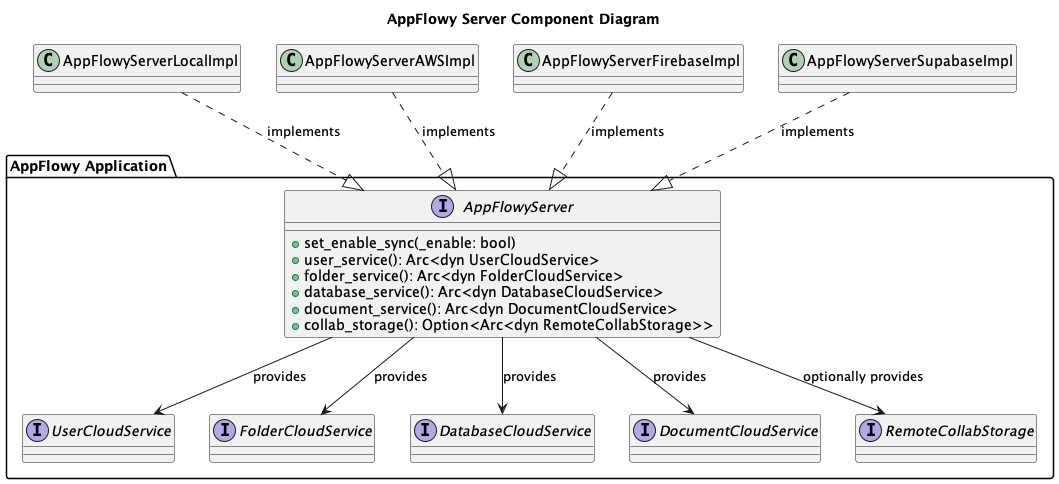
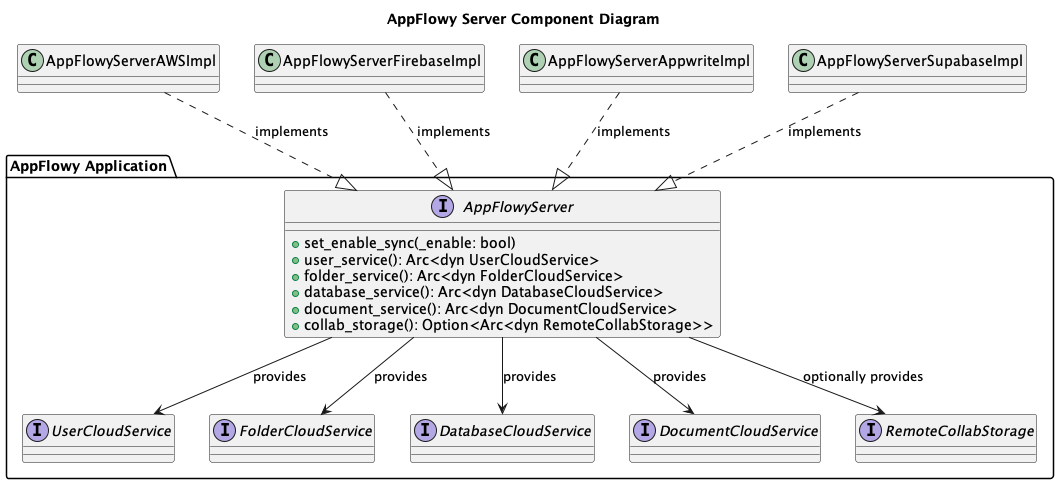
chore: update appflowy with supabase documentation

diff --git a/essential-documentation/appflowy-cloud/appflowy-with-supabase-wip.md b/essential-documentation/appflowy-cloud/appflowy-with-supabase-wip.md
@@ -1,22 +1,24 @@
-# AppFlowy with Supabase(WIP)
-AppFlowy, known for its user-friendly features in local apps, now allows users to upload data to the Cloud. We've chosen Supabase, an open-source alternative to Firebase, to manage user sign-ins and data storage. With a Supabase project, anyone can easily implement a self-hosted AppFlowy.
+# AppFlowy with Supabase
 
-Let's explore how AppFlowy uses Supabase for these tasks.
+AppFlowy is renowned for its user-friendly local app features. Recognizing the numerous requests for a cloud version, we're thrilled to announce that AppFlowy is now cloud-enabled! We've partnered with Supabase, an open-source alternative to Firebase, to handle user sign-ins and data storage. With a Supabase project, transforming AppFlowy into a self-hosted cloud app is straightforward. By the end of this article, you'll be primed to launch your very own AppFlowy cloud application with ease.
+
+Let's explore how AppFlowy uses Supabase to implement the cloud features.
 
 # Table of Contents
 
-- [Authentication](#Authentication)
-  - [Dive in the code](#Dive in the code)
-  - [Deep Links](#Deep Links)
-  - [Voila!](#Voila!)
-- [Data storage](#Data storage)
-  - [Architecture Design](#Architecture Design)
-  - [Supabase implementation](#Supabase implementation)
-    - [Database schema](#Database schema)
-    - [Dive in the code](#Dive in the code)
-- [Realtime](#Realtime)
+- [Authentication](#authentication)
+  - [Dive in the code](#dive-in-the-code)
+  - [Voila!](#voila)
+- [Data storage](#data-storage)
+  - [Architectural Design](#architectural-design)
+  - [Supabase implementation](#supabase-implementation)
+    - [Database schema](#database-schema)
+    - [Dive in the code](#dive-in-the-code-1)
+- [Realtime](#realtime)
+  - [Dive in the code](#dive-in-the-code-2)
 
-# Authentication
+
+## Authentication
 
 Initially, we considered building our own authentication service from scratch, one that would support social third-party authentication, magic links, and traditional email & password login. However, we soon realized that there were open-source projects available that already offer these features. That led us to the discovery of the Supabase authentication service, which provides multiple methods for user authentication.
 
@@ -27,7 +29,7 @@ Initially, we considered building our own authentication service from scratch, o
 
 This is exactly what we need. We can leverage Supabase's authentication service to implement AppFlowy's authentication system. After follow the instructions in [this documentation](https://supabase.com/docs/guides/auth), we successfully set up the authentication service. 
 
-## Dive in the code
+### Dive in the code
 Additionally, there's a Flutter package named [supabase_flutter](https://pub.dev/packages/supabase_flutter) which can be seamlessly integrated into AppFlowy. It perfectly meets our requirements. We utilize the `env` file to inject the supabase configuration into the app. Consequently, simply adding `supabase_flutter` and `envied` to the `pubspec.yaml` is all that's needed to kickstart the process.
 
 ```yaml
@@ -41,7 +43,7 @@ dev_dependencies:
 
 **Configuring the .env File**
 
-Start by creating a file named `.env` in the `appflowy_flutter` directory. Then, establish the `env.dart` file, which defines the global environment variables.
+Start by creating a file named `.env` in the `appflowy_flutter` directory. Then, create the `env.dart` file, which defines the global environment variables.
 
 * .env
 ```dotenv
@@ -99,7 +101,7 @@ Before utilizing the Supabase instance, it must be initialized. This initializat
 
 **Perform authentication**
 
-Our authentication logic leverages an abstract class named `AuthService`. This class's Supabase implementation can be found in `SupabaseAuthService`, specifically within the `supabase_auth_service.dart` file. 
+Our authentication logic provided an abstract class named `AuthService`. This class's Supabase implementation can be found in `SupabaseAuthService`, specifically within the `supabase_auth_service.dart` file. 
 
 ```dart
  @override
@@ -144,21 +146,21 @@ The authentication flow is shown below:
 
 ![](./uml-Authentication_Flow.png)
 
-## Deep Links
-
-## Voila!
+### Voila!
 Ultimately, by clicking the Google login button, users are directed to a web browser to finalize the authentication process. Once authenticated, they are seamlessly redirected back to AppFlowy. Truly, integrating Supabase authentication into AppFlowy is a straightforward endeavor.
 
 ![login.png](login_image.png)
 
-# Data storage
-## Architecture Design
+## Data storage
 
-One of the prerequisites for AppFlowy Data Storage is supporting multiple cloud services. To realize this, we've architected a modular design that accommodates the integration of diverse cloud services. Each implementation supplies the specific logic for the functions delineated in the AppFlowyServer interface. This architectural design is depicted below:
+### Architectural Design
+
+One of the prerequisites for AppFlowy Data Storage is the support for multiple cloud services. To achieve this, we've designed an abstraction layer that facilitates the integration of various cloud services. Each implementation provides the specific logic for the functions outlined in the AppFlowyServer interface. The architectural design is illustrated below:
 
 ![](./uml-AppFlowy_Server_Component_Diagram.png)
 
-As you can see, with the `AppFlowyServer` interface, we can seamlessly switch between different cloud services. For instance, transitioning from Supabase to AWS or Firebase is as simple as altering the implementation of the `AppFlowyServer` interface. This flexibility is a notable benefit of its modular design. The `AppFlowyServer` comprises five components, with each component handling a distinct set of functionalities. Let's delve into each of these components.
+From the `AppFlowyServer` interface, it's evident that we can easily transition between various cloud services. For instance, moving from [Supabase](https://supabase.com/) to [Firebase](https://firebase.google.com/) or [Appwrite](https://appwrite.io/) is merely a matter of changing the implementation of the `AppFlowyServer` interface. The `AppFlowyServer` encompasses five services, with each service catering to a unique set of functionalities. Additionally, each service defines its own interface. Let's explore each of these components in detail.
+
 
 * UserCloudService
 
@@ -183,7 +185,7 @@ The `FolderCloudService` interface outlines a set of operations centered around 
 
 Currently, we only support Supabase as a cloud service provider. However, we intend to support other cloud services in the future. Let's explore how to implement the `AppFlowyServer` using Supabase.
 
-## Supabase implementation
+### Supabase implementation
 Upon integrating Supabase authentication, we discovered it inherently offers a PostgreSQL database. This advantage implies that individual users self-hosting AppFlowy on Supabase won't require separate data storage setups. Each Supabase project is pre-equipped with a dedicated PostgreSQL database, which we leverage to store AppFlowy's data.
 
 ### Database schema
@@ -195,7 +197,10 @@ We utilize the Postgres database to store:
 4. Relationships between users and their associated workspaces
 
 Here's what our schema looks like:
+
 ![schema.png](schema.png)
+
+Let's introduce some of the tables and views in the schema:
 
 1. **`af_roles` table**: Captures roles, e.g., 'Owner', 'Member', 'Guest'.
 
@@ -221,12 +226,63 @@ We've developed a [tool](https://github.com/AppFlowy-IO/AppFlowy-Supabase) desig
 
 ### Dive in the code
 
-AppFlowy's backend is built using Rust, necessitating a Rust crate to facilitate interaction with the Postgres database. Fortunately, the community has provided [postgrest-rs](https://github.com/supabase-community/postgrest-rs), a crate tailored to implement Supabase's Postgres database functionalities.
+AppFlowy's backend is developed in Rust, which requires a Rust crate to interact seamlessly with the Postgres database. Thankfully, the community has provided [postgrest-rs](https://github.com/supabase-community/postgrest-rs), a crate specifically designed to handle Supabase's Postgres database features. We've defined a struct named [SupabaseServer](https://github.com/AppFlowy-IO/AppFlowy/blob/main/frontend/rust-lib/flowy-server/src/supabase/server.rs) that implements the `AppFlowyServer` trait.
 
+When interacting with the Postgres database, primarily CRUD operations are carried out. However, it's important to emphasize the value of the RPC function for customizing database actions. We've defined a function called `flush_collab_updates_v3`. This function locks the row with a specified OID, aggregates the updates into a single update, and then deletes the consolidated updates.
 
-![](./data_storage.png)
+Here is the definition of the `flush_collab_updates_v3` function:
+```plpgsql
+CREATE OR REPLACE FUNCTION public.flush_collab_updates_v3(
+        oid TEXT,
+        new_value BYTEA,
+        encrypt INTEGER,
+        md5 TEXT,
+        value_size INTEGER,
+        partition_key INTEGER,
+        uid BIGINT,
+        workspace_id UUID,
+        removed_keys BIGINT [],
+        did TEXT
+    ) RETURNS void AS $$
+DECLARE lock_key INTEGER;
+BEGIN -- Hashing the oid to an integer for the advisory lock
+lock_key := (hashtext(oid)::bigint)::integer;
+-- Getting a session level lock
+PERFORM pg_advisory_lock(lock_key);
+-- Deleting rows with keys in removed_keys
+DELETE FROM af_collab_update
+WHERE key = ANY (removed_keys);
+-- Inserting a new update with the new key and value
+INSERT INTO af_collab_update(
+        oid,
+        value,
+        encrypt,
+        md5,
+        value_size,
+        partition_key,
+        uid,
+        workspace_id,
+        did
+    )
+VALUES (
+        oid,
+        new_value,
+        encrypt,
+        md5,
+        value_size,
+        partition_key,
+        uid,
+        workspace_id,
+        did
+    );
+-- Releasing the lock
+PERFORM pg_advisory_unlock(lock_key);
+RETURN;
+END;
+$$ LANGUAGE plpgsql;
+```
 
-We won't delve too deeply here since it's beyond the scope of this article. However, it's worth highlighting the RPC function, which proves invaluable for customizing database actions. We've defined a function named `flush_collab_updates_v3`. This function locks the row with a specified oid, consolidates the updates into one, and subsequently deletes the merged updates.
+Then we can call the `flush_collab_updates_v3` function in Rust.
 
 ```rust
 pub(crate) async fn flush_collab_with_update(
@@ -270,8 +326,78 @@ pub(crate) async fn flush_collab_with_update(
     .await?;
   Ok(())
 }
-
 ```
+## Realtime
+
+Using Supabase's [realtime](https://supabase.com/docs/guides/realtime) service, we can track changes to specific tables. For example, monitoring the `af_user` table allows us to capture the most recent user activities whenever they sign in on various devices. Other tables can be monitored in the same way.
+
+
+![](./uml-Realtime_Service.png)
+
+
+### Dive in the code
+
+We observe update events from both the `af_collab_update` and `af_user` tables. When an update event is triggered, we propagate the event data to the Rust backend.  
+
+```dart
+Future<void> _subscribeTablesChanges() async {
+ final List<ChannelFilter> filters = [
+      "document",
+      "folder",
+      "database",
+      "database_row",
+      "w_database",
+    ]
+        .map(
+          (name) => ChannelFilter(
+            event: 'INSERT',
+            schema: 'public',
+            table: "af_collab_update_$name",
+            filter: 'uid=eq.${userProfile.id}',
+          ),
+        )
+        .toList();
+
+    filters.add(
+      ChannelFilter(
+        event: 'UPDATE',
+        schema: 'public',
+        table: "af_user",
+        filter: 'uid=eq.${userProfile.id}',
+      ),
+    );
+
+    const ops = RealtimeChannelConfig(ack: true);
+    channel?.unsubscribe();
+    channel = supabase.client.channel("table-db-changes", opts: ops);
+    for (final filter in filters) {
+      channel?.on(
+        RealtimeListenTypes.postgresChanges,
+        filter,
+        (payload, [ref]) {
+          try {
+            final jsonStr = jsonEncode(payload);
+            final pb = RealtimePayloadPB.create()..jsonStr = jsonStr;
+            UserEventPushRealtimeEvent(pb).send();
+          } catch (e) {
+            Log.error(e);
+          }
+        },
+      );
+    }
+
+    channel?.subscribe(
+      (status, [err]) {
+        Log.info(
+          "subscribe channel statue: $status, err: $err",
+        );
+      },
+    );
+ }
+```
+
+Different components will consume various updates. A detailed discussion on this is beyond the purview of this documentation, but we will delve into it in future discussions.
+
 
 
 
